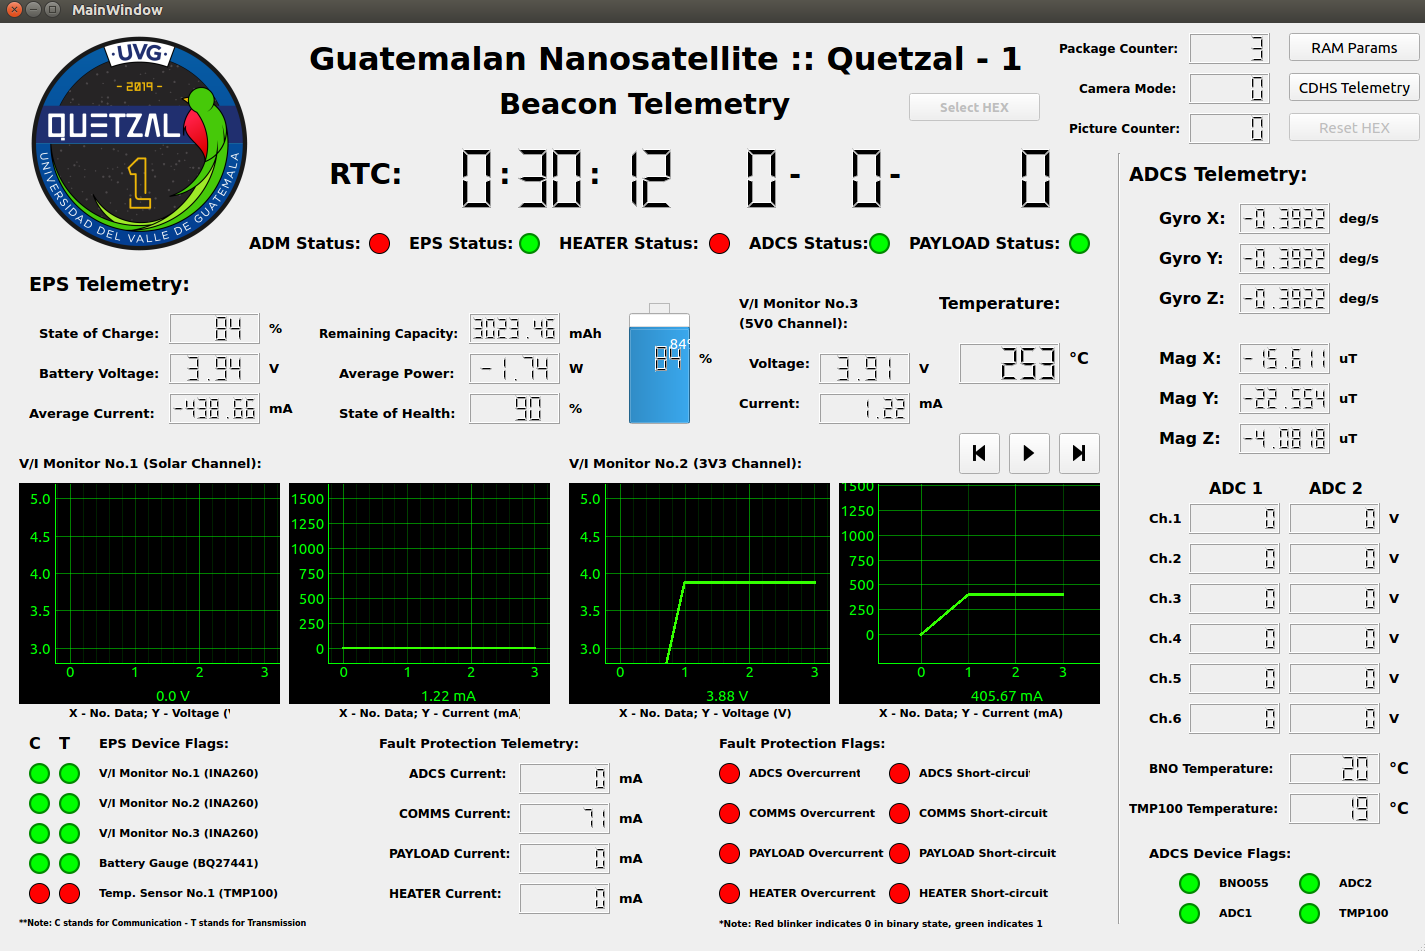
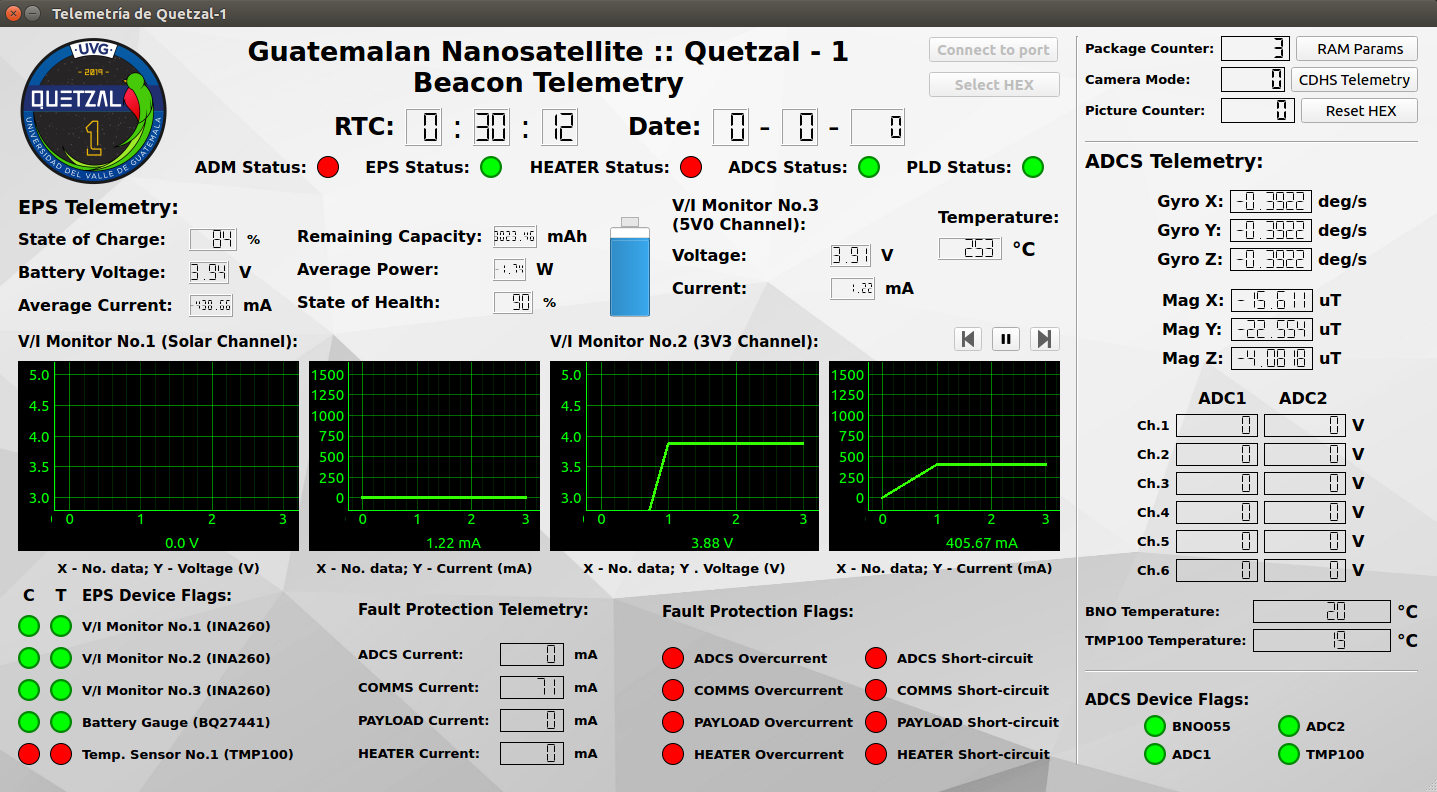
Updated readme to explain changes to Python GUI, added screenshots

diff --git a/README.md b/README.md
@@ -103,22 +103,36 @@ We have provided a realistic recording of a satellite beacon in `recordings/exam
 
 # Python Scripts for Data Visualization
 
-Author: Aldo Aguilar (aldostef@gmail.com)
+Credit: Aldo Aguilar (aldostef@gmail.com)
 
-A GUI was developed in `python3` to visualize beacon data. For the moment, this GUI can only graph data "post-mortem": that is, after it has been successfully decoded and saved into a `.dat` file.
+---
+:information_source: **NOTE**
 
-For the program to run correctly, please make sure you've installed `PyQt5` and `pyqtgraph` 0.10.0. To do so, run:
+As of commit `15ff8d9`, this GUI could only graph data "post-mortem". However, starting from commit `6565bdc`, the GUI can also show live beacons coming from the GNURadio decoder.
+
+---
+
+A GUI was developed in `python3` to visualize beacon data. For the program to run correctly, please make sure you've installed `PyQt5`, `pyqtgraph` 0.10.0 and `zmq`. To do so, run:
 
 	python3 -m pip install PyQt5
 	python3 -m pip install pyqtgraph==0.10.0
+	python3 -m pip install zmq
 
 Once this is done, you can run the script by going into the `apps/desktop/` directory, opening a terminal and running:
 
-	python3 -m Quetzal_1_HEX.py
+	python3 -m main.py
 
-This will open a window as shown below. You can select a beacon to visualize by clicking on *Select Hex* and navigating to one of the decoded `.dat` files (for example, choose the file in `examples/example_beacon_raw.dat`). Once selected, the GUI will automatically start displaying beacons one second at a time. You can also scan through the beacons by clicking on the fast-foward and rewind buttons.
+## Post-mortem beacon parsing
+
+Upon opening the GUI, you can select a beacon to visualize by clicking on *Select Hex* and navigating to one of the decoded `.dat` files (for example, choose the file in `examples/example_beacon_raw.dat`). Once selected, the GUI will automatically start displaying beacons one second at a time. You can also scan through the beacons by clicking on the fast-foward and rewind buttons.
 
 ![Python GUI](misc/Python_GUI.png)
+
+## Live beacon parsing
+
+You can now view decoded data live by clicking on *Connect to port*, typing `localhost` as the IP address and `1502` as the port to connnect to. Once this is done, you can test it out by running the GNURadio decoder with the example beacon recording (`examples/example_beacon_quetzal1.wav`). Upon doing this, decoded frames will start to appear in the GUI. When tracking Quetzal-1, you can use this feature to view live data.
+
+![Python GUI](misc/Python_GUI_TCP.png)
 
 # GNURadio 3.7 Installation
 
